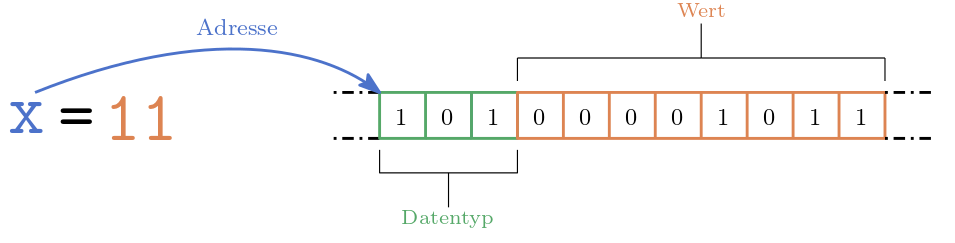
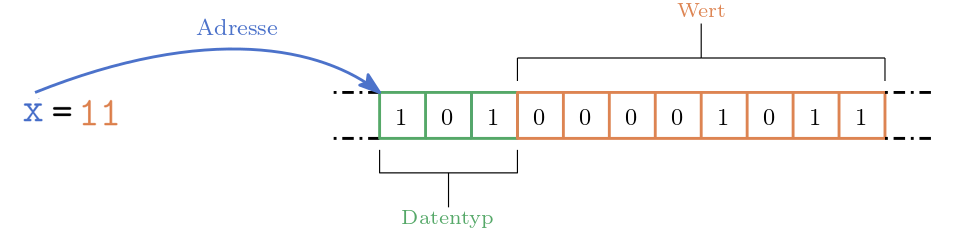
finalize pictures

Changed region(s): [[0.0, 0.4033, 0.1822, 0.5761]]

diff --git a/chapters/06-python-basics/1-variables/2-variablen-arbeitsspeicher.md b/chapters/06-python-basics/1-variables/2-variablen-arbeitsspeicher.md
@@ -21,7 +21,7 @@ Den Arbeitsspeicher können wir uns als lange Liste von Bits vorstellen:
 
 ```{figure} ../../../figs/03-language-properties/python-tutorial/variables/ram.png
 ---
-width: 400px
+width: 350px
 name: fig-ram
 ---
 Der Arbeitsspeicher ist eine sehr lange Liste bestehend aus [Bits](def-bit).
@@ -41,7 +41,7 @@ Dort steht auch der **Datentyp**, d. h. die *Information*, wie dieser **Wert** z
 
 ```{figure} ../../../figs/07-python-data-types/python-tutorial/datatypes/data-type-key-pair.png
 ---
-width: 800px
+width: 500px
 name: fig-data-type-key-pair-2
 ---
 Variablen für dynamische Typisierung: Eine *Variable* dargestellt als Tripel aus (Adresse, Datentyp, Wert). 
@@ -72,7 +72,7 @@ Folgende Abbildung verdeutlicht die Situation:
 
 ```{figure} ../../../figs/03-language-properties/python-tutorial/variables/variable.png
 ---
-width: 400px
+width: 350px
 name: fig-variable
 ---
 Initialisierung und Zuweisung einer Variable ``x``  mit dem Wert ``25``. Der Wert steht im Arbeitsspeicher (rechts) an der Speicheradresse 6. Die Variable zeigt auf diese Adresse im Speicher.
@@ -93,7 +93,7 @@ Diese Situation sieht demnach wie folgt aus:
 
 ```{figure} ../../../figs/06-python-basics/python-tutorial/variables/variable-equal-id.png
 ---
-width: 400px
+width: 500px
 name: fig-variable-equal-id
 ---
 Initialisierung und Zuweisung einer Variablen ``x`` und ``z``  mit dem Wert ``25``. Die Adresse beider Variablen ist identisch.

diff --git a/chapters/01-course-overview/34-sprachen.md b/chapters/01-course-overview/34-sprachen.md
@@ -125,7 +125,7 @@ Für das Engineering besonders wichtig:
 
 ```{figure} ../../figs/01-course-overview/languages/ecosystem.png
 ---
-width: 400px
+width: 600px
 name: fig-python-ecosystem
 ---
 Python Ecosystem: Python (unten) stellt intern viele Funktionalitäten bereit. Externe Bibliotheken (oben) stellen zusätzliche Funktionalitäten bereit.

diff --git a/chapters/02-computer-sciences-basics/20-basics.md b/chapters/02-computer-sciences-basics/20-basics.md
@@ -26,7 +26,7 @@ Ein Computer erweitert das EVA-Prinzip um den **Speicher** und damit um einen **
 
 ```{figure} ../../figs/02-computer-sciences-basics/digital-computer/basics/dfa.png
 ---
-width: 600px
+width: 500px
 name: fig-dfa
 ---
 Ein Modell eines Computers mit 4 Zuständen. 